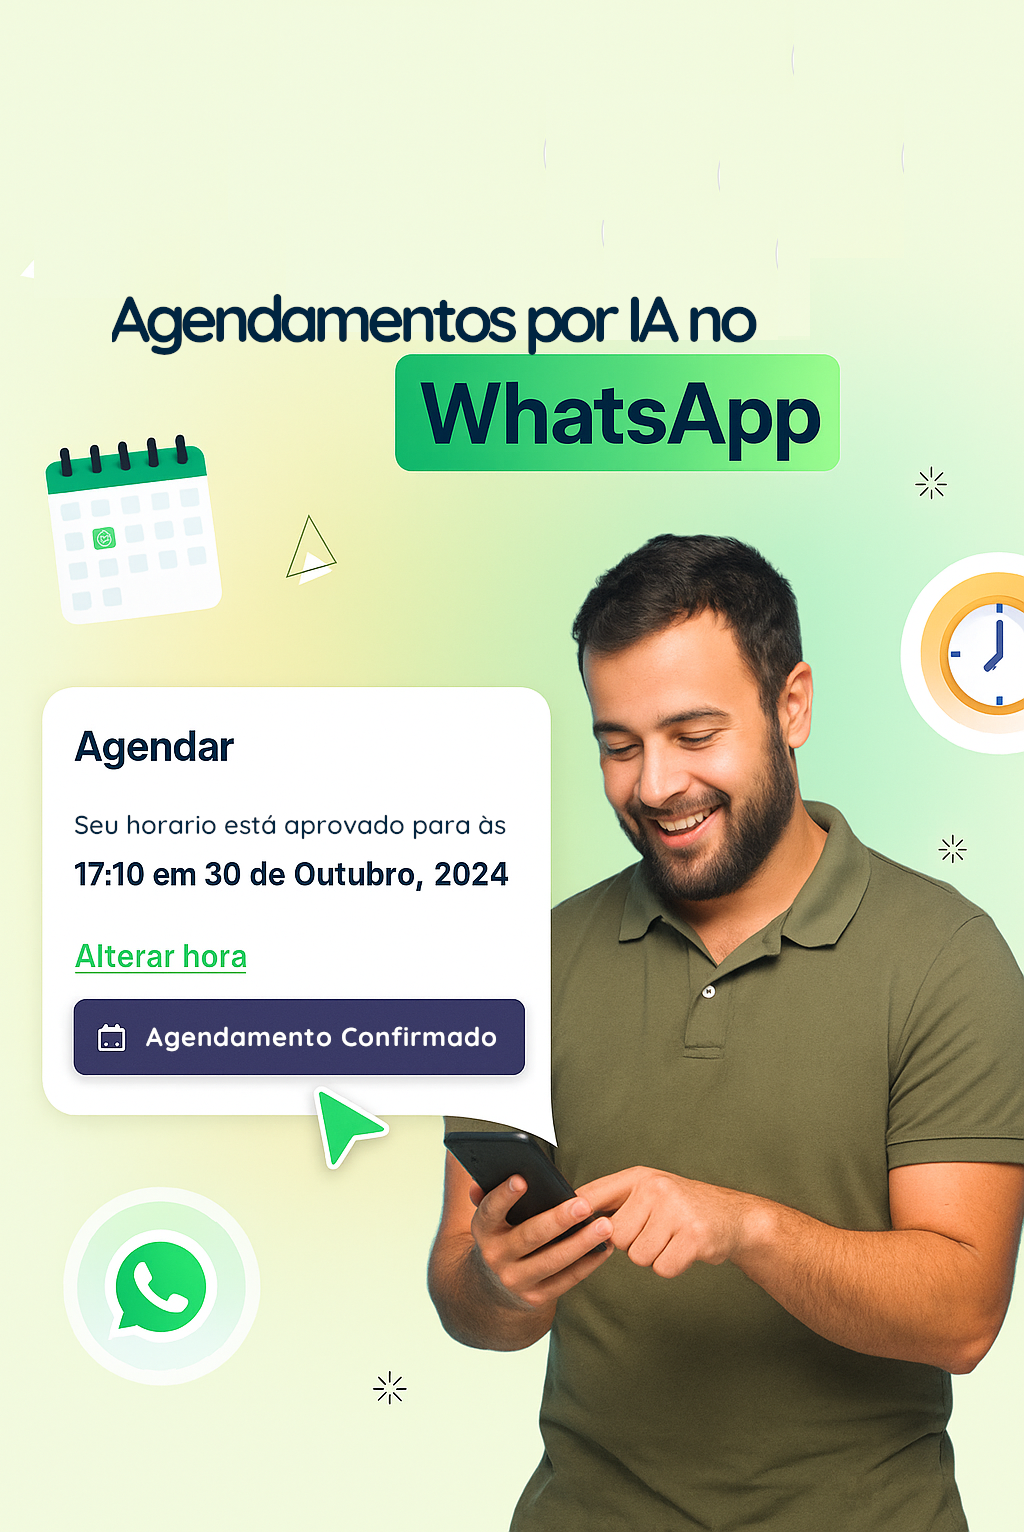
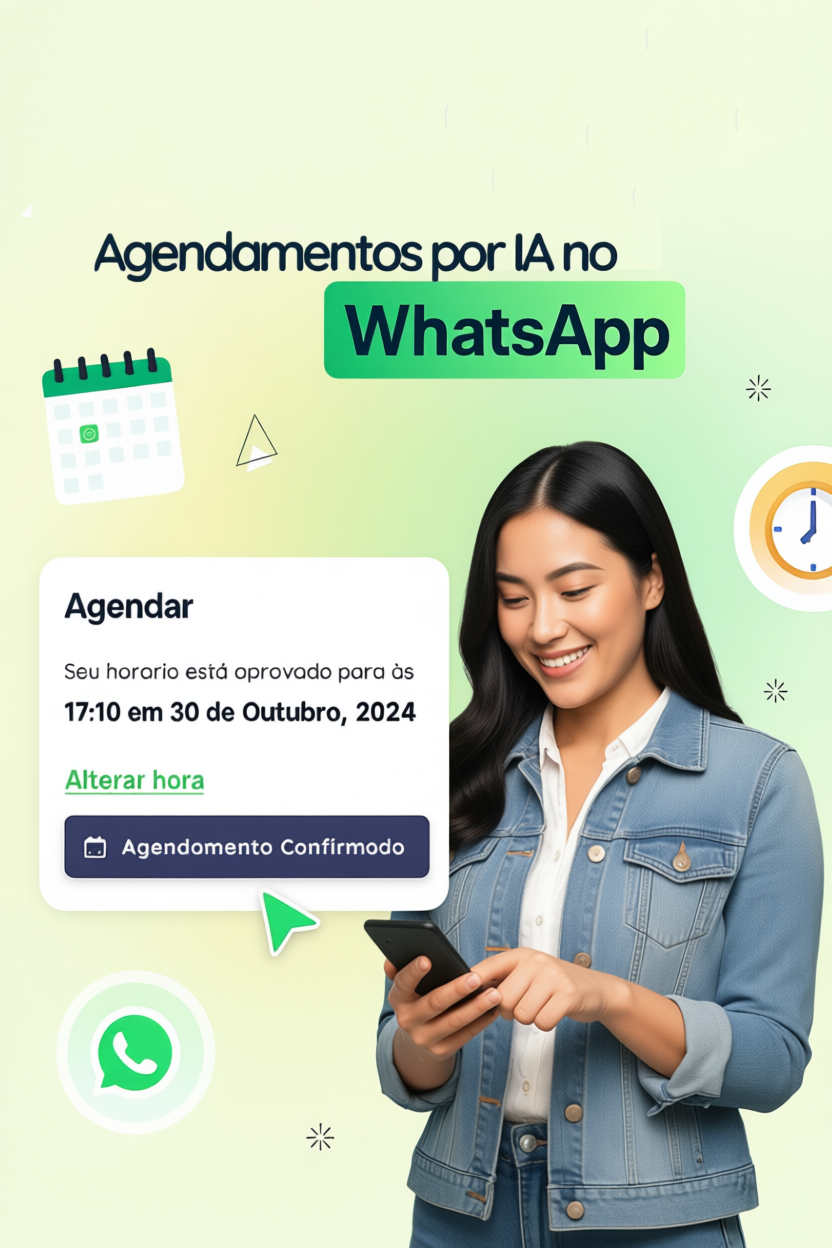
atualizado algumas imagens e dizeres no site

diff --git a/index.html b/index.html
@@ -53,8 +53,8 @@
       <nav id="navbar" class="navbar">
         <ul>
           <li><a href="#hero">Início</a></li>
-          <li><a href="#carousel">Produtos</a></li>
-          <li><a href="#portfolio">Tecnologia</a></li>
+          <li><a href="#carousel">Portfólio</a></li>
+          <li><a href="#expertise">Expertise</a></li>
           <li class="nav-item">
             <a class="nav-link" href="#" data-bs-toggle="modal" data-bs-target="#modalLogin">Login</a>
           </li>
@@ -112,11 +112,11 @@
 
     <div class = "container" data-aos= "fade-up">  
       <div class="section-header">
-        <h2>Nossa principal atuação</h2>
+        <h2>Portfólio</h2>
         <p>
           Descubra soluções criadas para quem usa o talento para transformar beleza em arte.
           Cada cliente merece o melhor. Por isso, desenvolvemos ferramentas tecnológicas como o espelho eletrônico, 
-          o agendamento automatizado, o controle de estoque e até avatares virtuais que encantam e vendem com carisma.
+          o agendamento automatizado, o controle de estoque e até avatares virtuais que encantam e vendem com carisma qualquer produto.
         </p>
       </div>
       
@@ -226,11 +226,11 @@
    </div>    
   </section>    
 
-  <section id="portfolio" class="portfolio sections-bg">
+  <section id="expertise" class="portfolio sections-bg">
     <div class="container" data-aos="fade-up">
 
       <div class="section-header">
-        <h2>Tecnologias</h2>
+        <h2>Expertise</h2>
         <p>Utilizar as ferramentas adequadas é essencial para a eficiência, produtividade e sucesso de um projeto. Ferramentas apropriadas facilitam tarefas, melhoram a qualidade do trabalho e reduzem problemas e atrasos.</p>
       </div>
 
